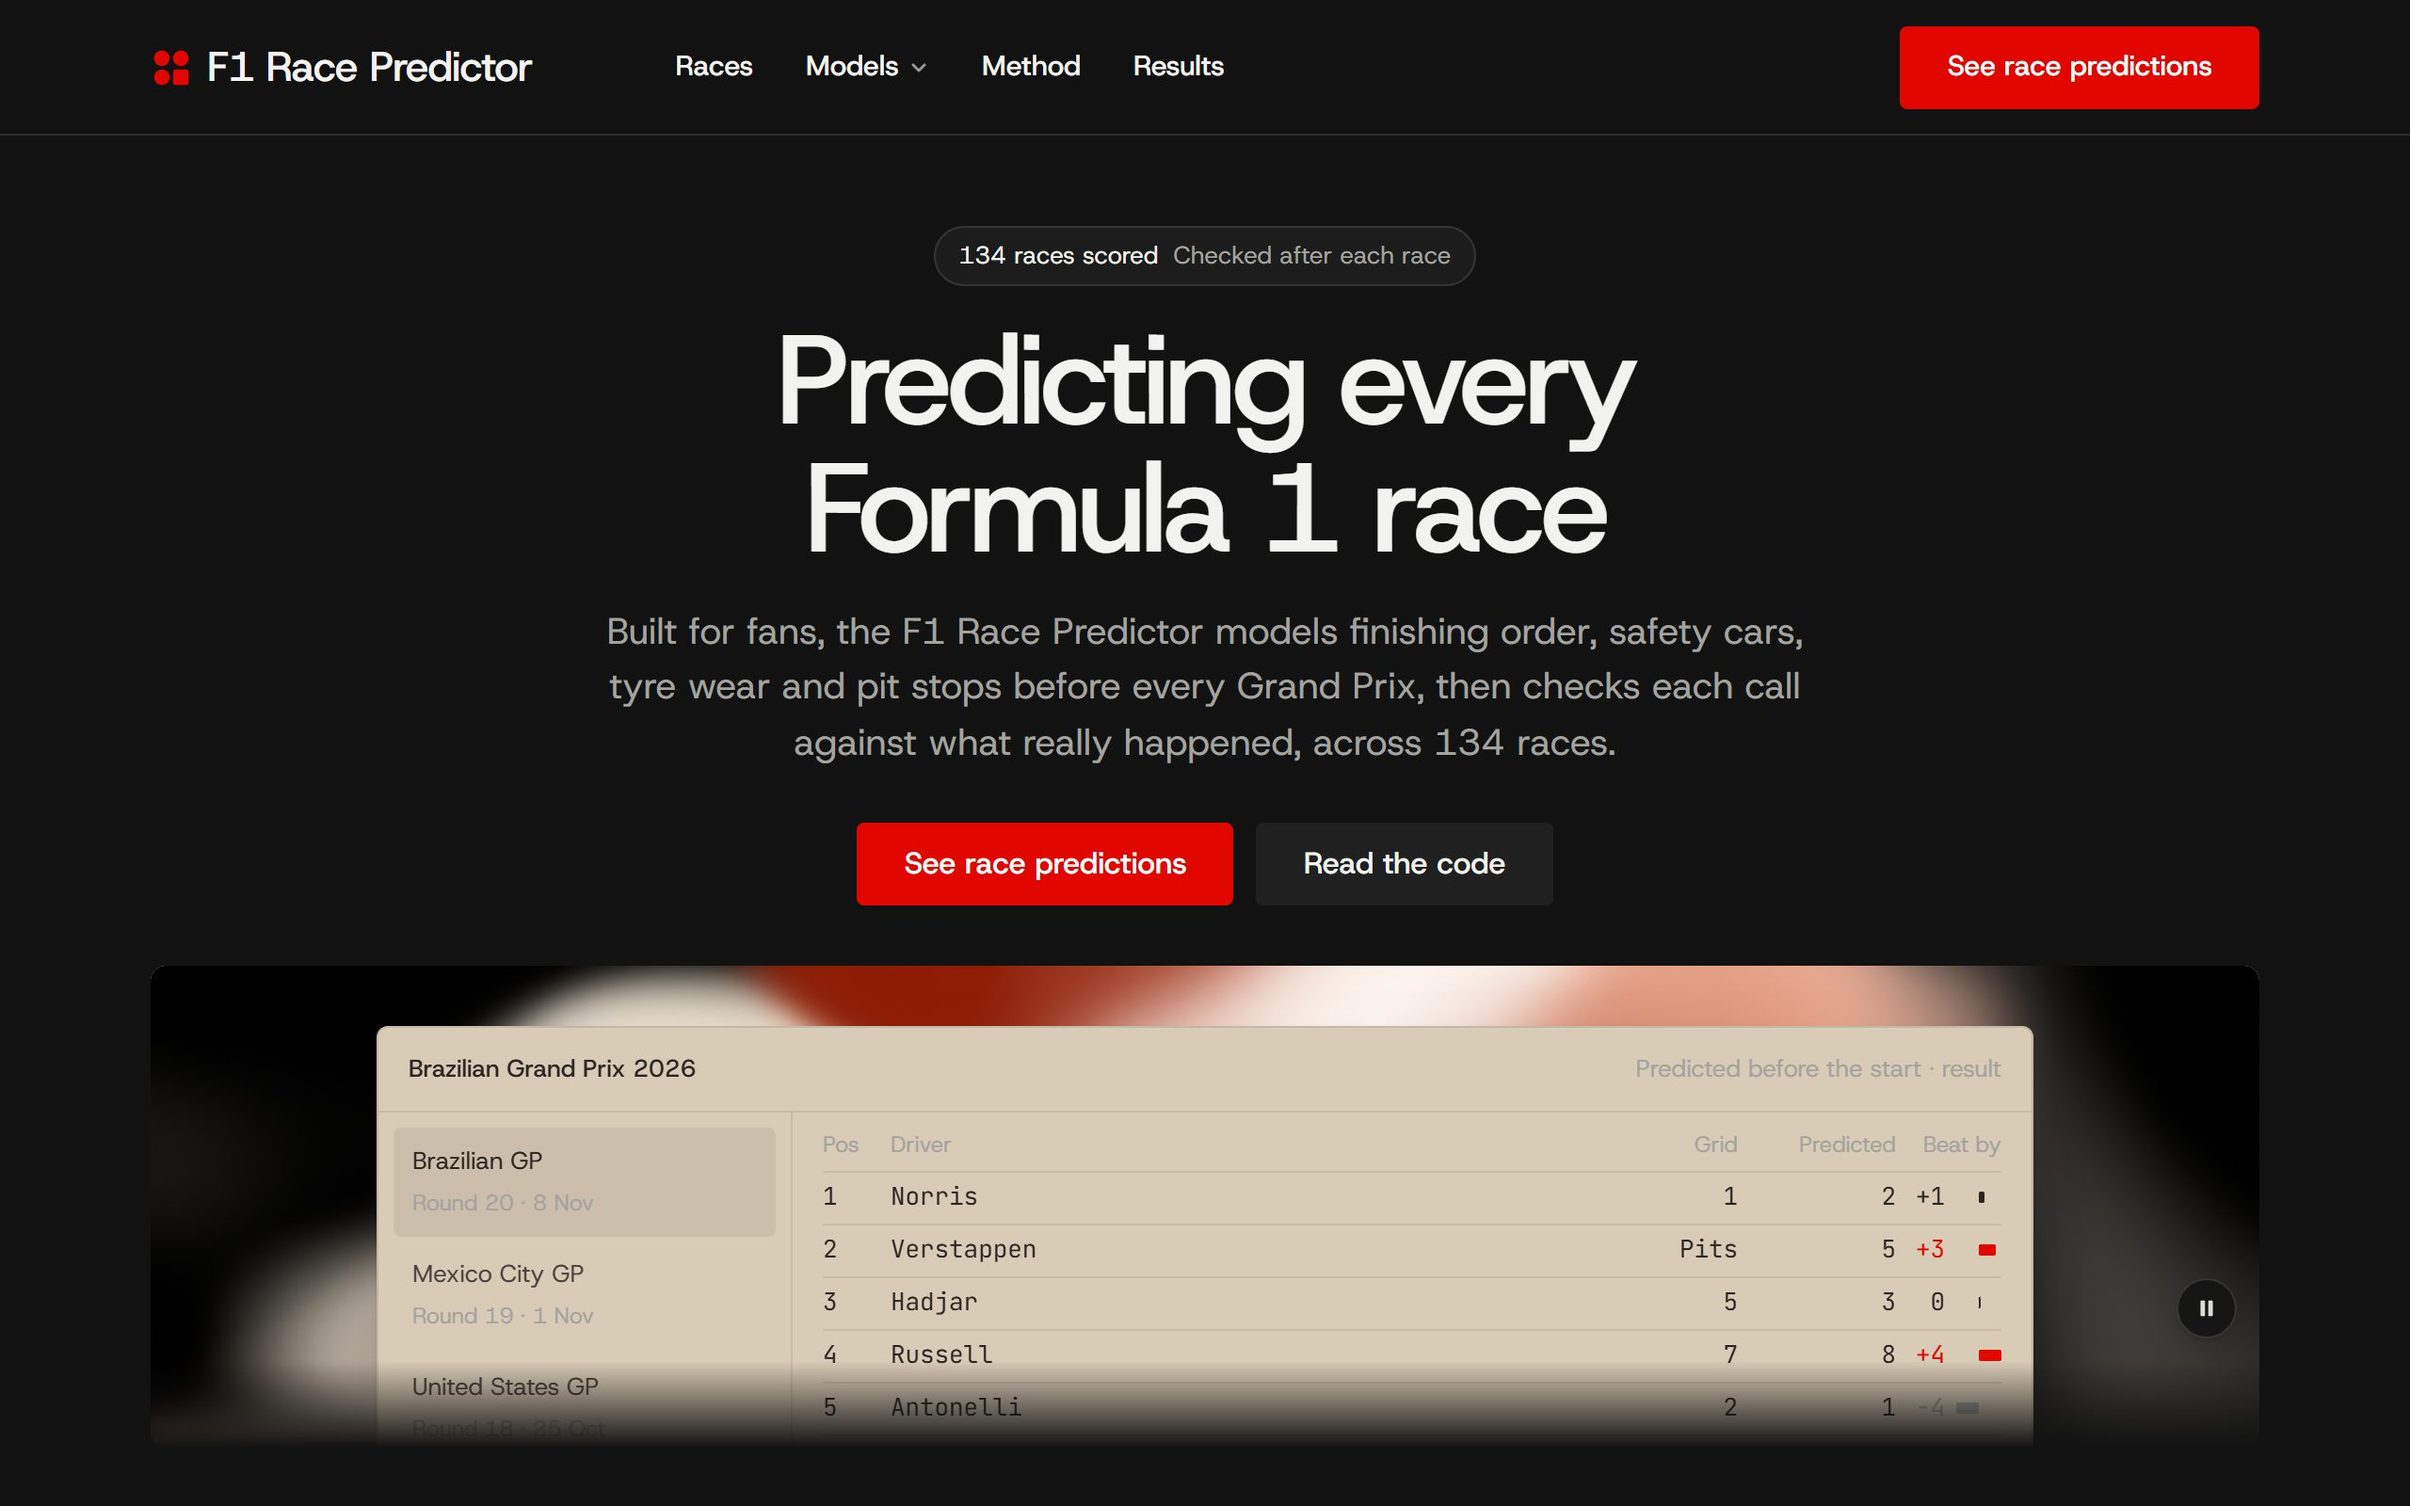
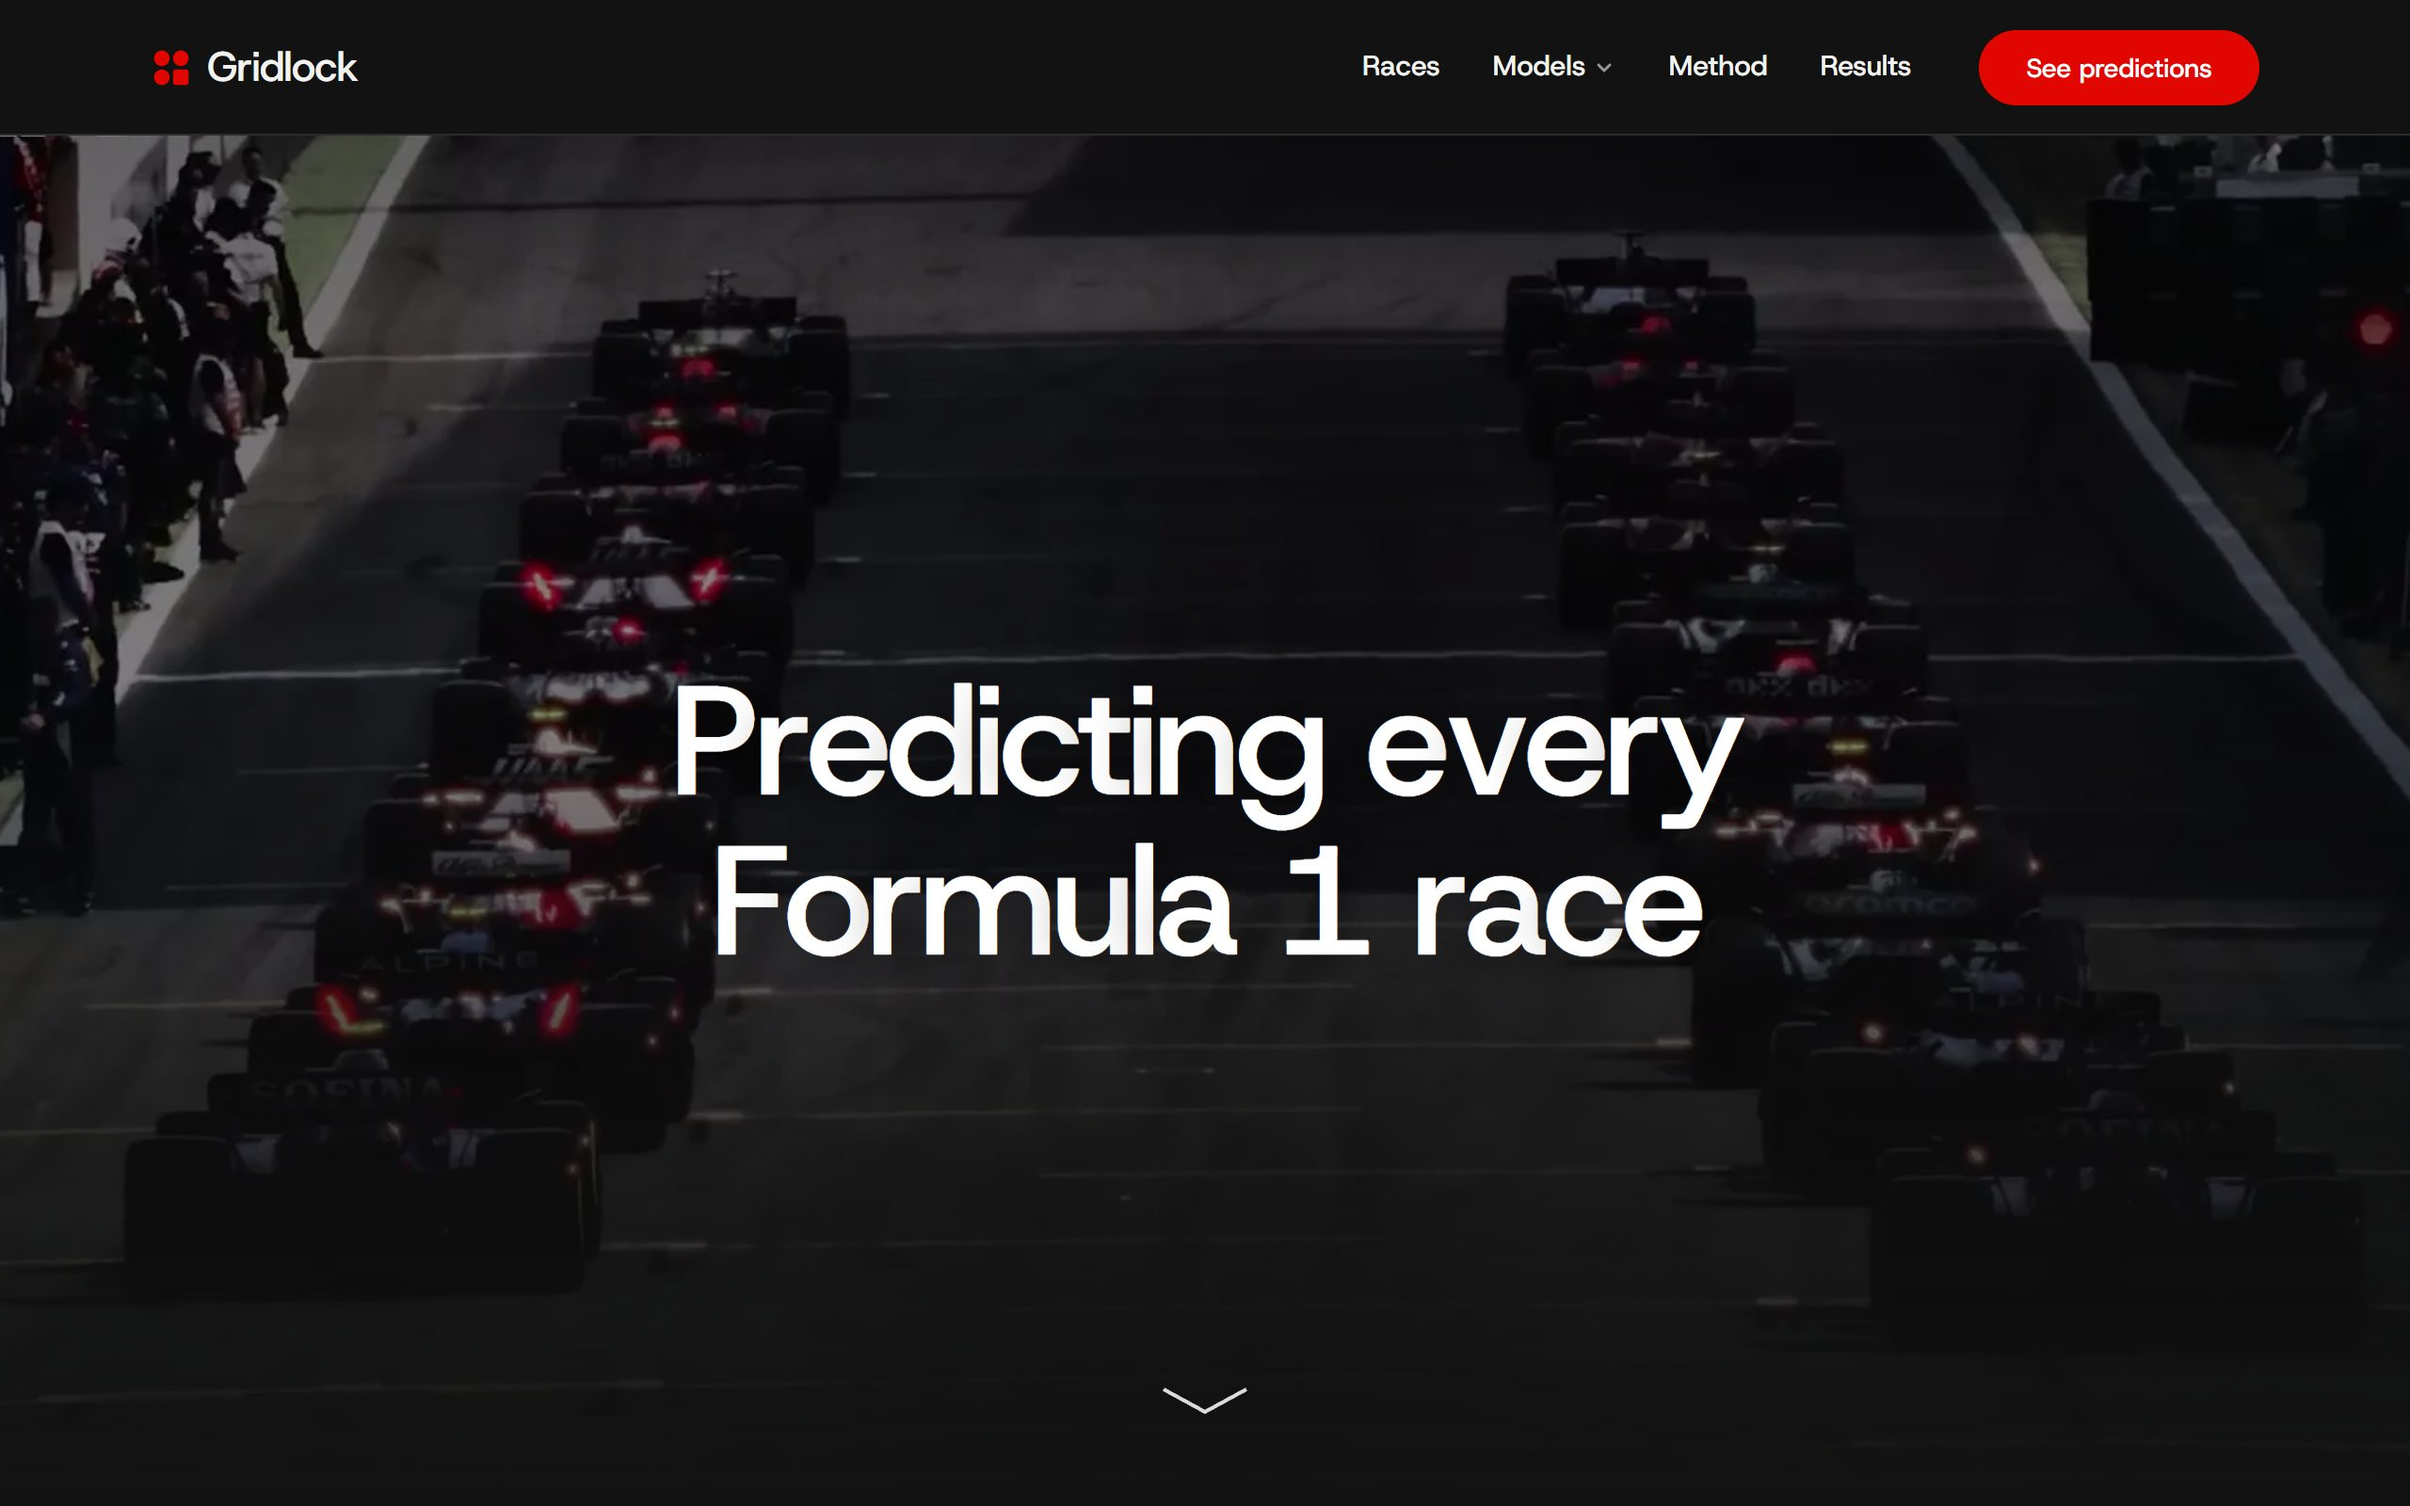
feat(projects): rename the F1 project to Gridlock
- Case study moves to /projects/gridlock (route folder renamed) and is titled Gridlock
- Home card links there; the laptop model's screen is re-shot from the redesigned site
  (the video hero, the right-aligned nav and the new name)
- Test and README follow the new route

diff --git a/app/routes/projects.gridlock/route.tsx b/app/routes/projects.gridlock/route.tsx
@@ -25,7 +25,7 @@ import {
 } from '~/layout/project';
 import config from '~/config.json';
 
-const title = 'F1 Race Predictor';
+const title = 'Gridlock';
 const description =
     'A machine learning project that predicts every Formula 1 race before the lights go out, then scores each call against what really happened. It rebuilds itself after every Grand Prix.';
 const roles = ['Machine Learning', 'Data Pipeline', 'Python', 'Front End Development'];
@@ -39,7 +39,7 @@ export const meta: MetaFunction = () => [
 
 const image = (src: string, large: string) => `${src} 1280w, ${large} 2560w`;
 
-export default function F1RacePredictor() {
+export default function Gridlock() {
     return (
         <ProjectContainer>
             <ProjectBackground

diff --git a/app/routes/home/home.tsx b/app/routes/home/home.tsx
@@ -95,10 +95,10 @@ export const Home = () => {
                 title="Predicting every Formula 1 race"
                 description="A machine learning model that predicts finishing orders, safety cars, tyre wear and pit stops of each Grand Prix" 
                 buttonText="View project"
-                buttonLink="/projects/f1-race-predictor"
+                buttonLink="/projects/gridlock"
                 model={{
                     type: "laptop",
-                    alt: "F1 Race Predictor results page",
+                    alt: "Gridlock results page",
                     textures: [
                         {
                             srcSet: `${f1Texture} 1280w, ${f1TextureLarge} 2560w`,

diff --git a/tests/projects.spec.ts b/tests/projects.spec.ts
@@ -7,7 +7,7 @@ test('the first project links to its case study', async ({ page }) => {
   await expect(project.getByRole('heading', { name: 'Predicting every Formula 1 race' })).toBeVisible();
 
   await project.getByRole('link', { name: 'View project' }).click();
-  await expect(page).toHaveURL(/\/projects\/f1-race-predictor$/);
-  await expect(page).toHaveTitle(/F1 Race Predictor/);
-  await expect(page.getByRole('heading', { level: 1, name: 'F1 Race Predictor' })).toBeVisible();
+  await expect(page).toHaveURL(/\/projects\/gridlock$/);
+  await expect(page).toHaveTitle(/Gridlock/);
+  await expect(page.getByRole('heading', { level: 1, name: 'Gridlock' })).toBeVisible();
 });

diff --git a/README.md b/README.md
@@ -63,7 +63,7 @@ npm run deploy
 
 ```
 app/
-├── routes/                 # Pages: home, project pages (e.g. projects.f1-race-predictor)
+├── routes/                 # Pages: home, project pages (e.g. projects.gridlock)
 │   └── home/               # Intro, project summaries, profile, displacement sphere
 ├── components/             # Reusable UI (button, heading, image, model, text, …) + their stories
 │   └── theme-provider/     # Design tokens (theme.ts) and the light/dark theme context
@@ -109,6 +109,6 @@ Please don't present any of my projects as your own; this is my real portfolio, 
   <summary>How do I add a new project?</summary>
 
   1. Add a `ProjectSummary` to `app/routes/home/home.tsx` with the next `id` (e.g. `project-2`), a title, description, button link and device model textures from `app/assets/`.
-  2. Create the project's page as a new route, following `app/routes/projects.f1-race-predictor/route.tsx`.
+  2. Create the project's page as a new route, following `app/routes/projects.gridlock/route.tsx`.
   3. The laptop and phone models are Draco-compressed; their decoder is already served from `public/draco/`, so no extra setup is needed.
 </details>
